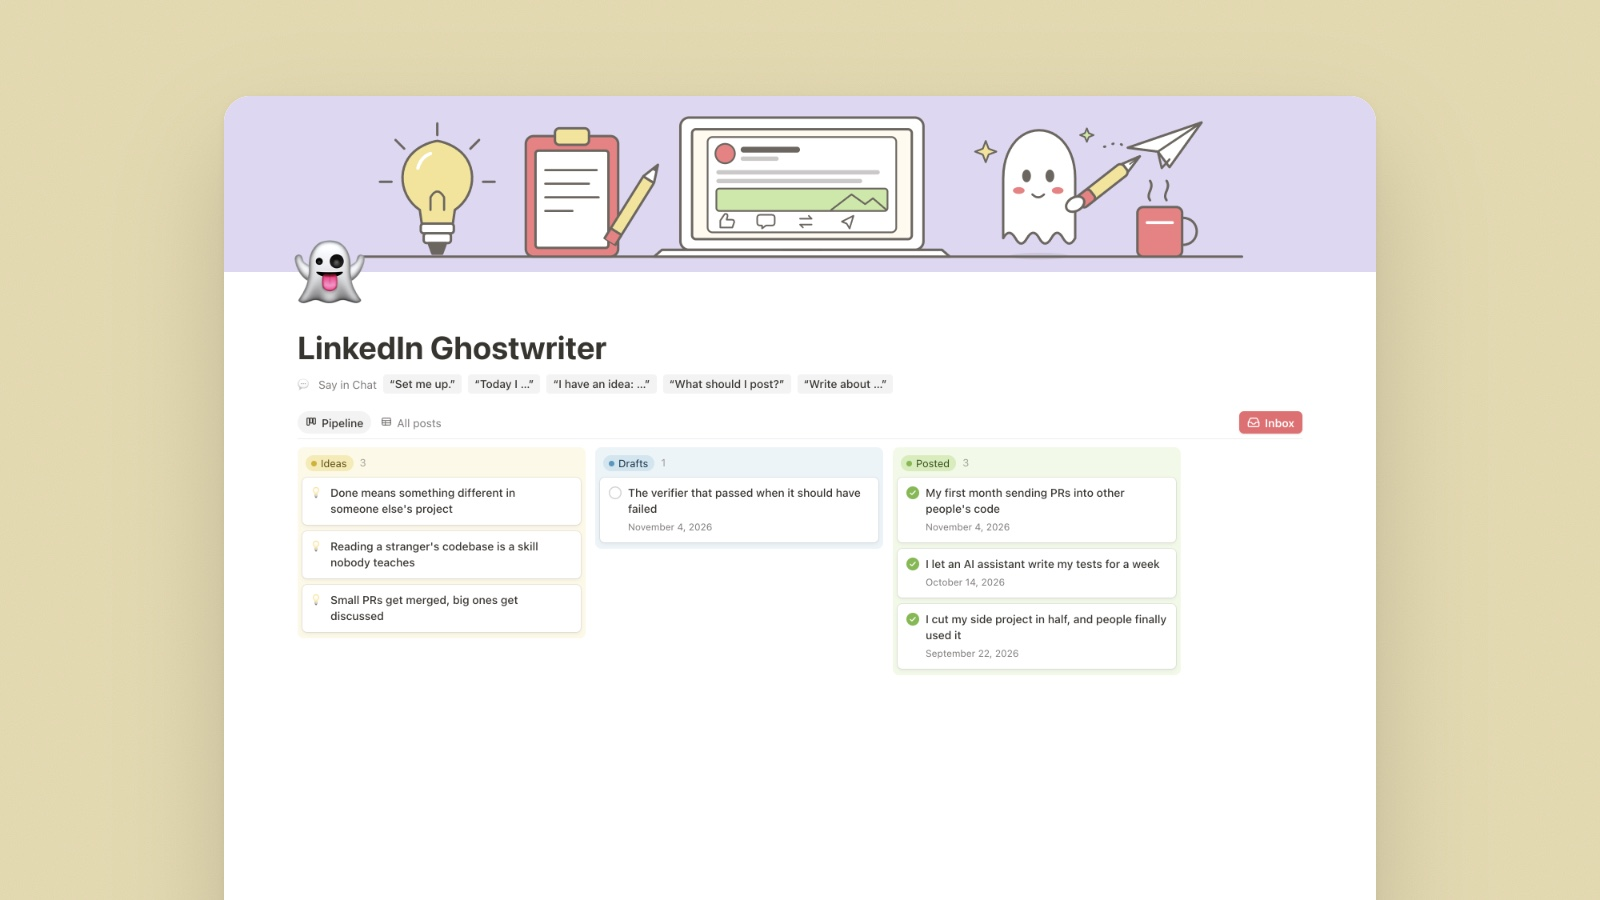
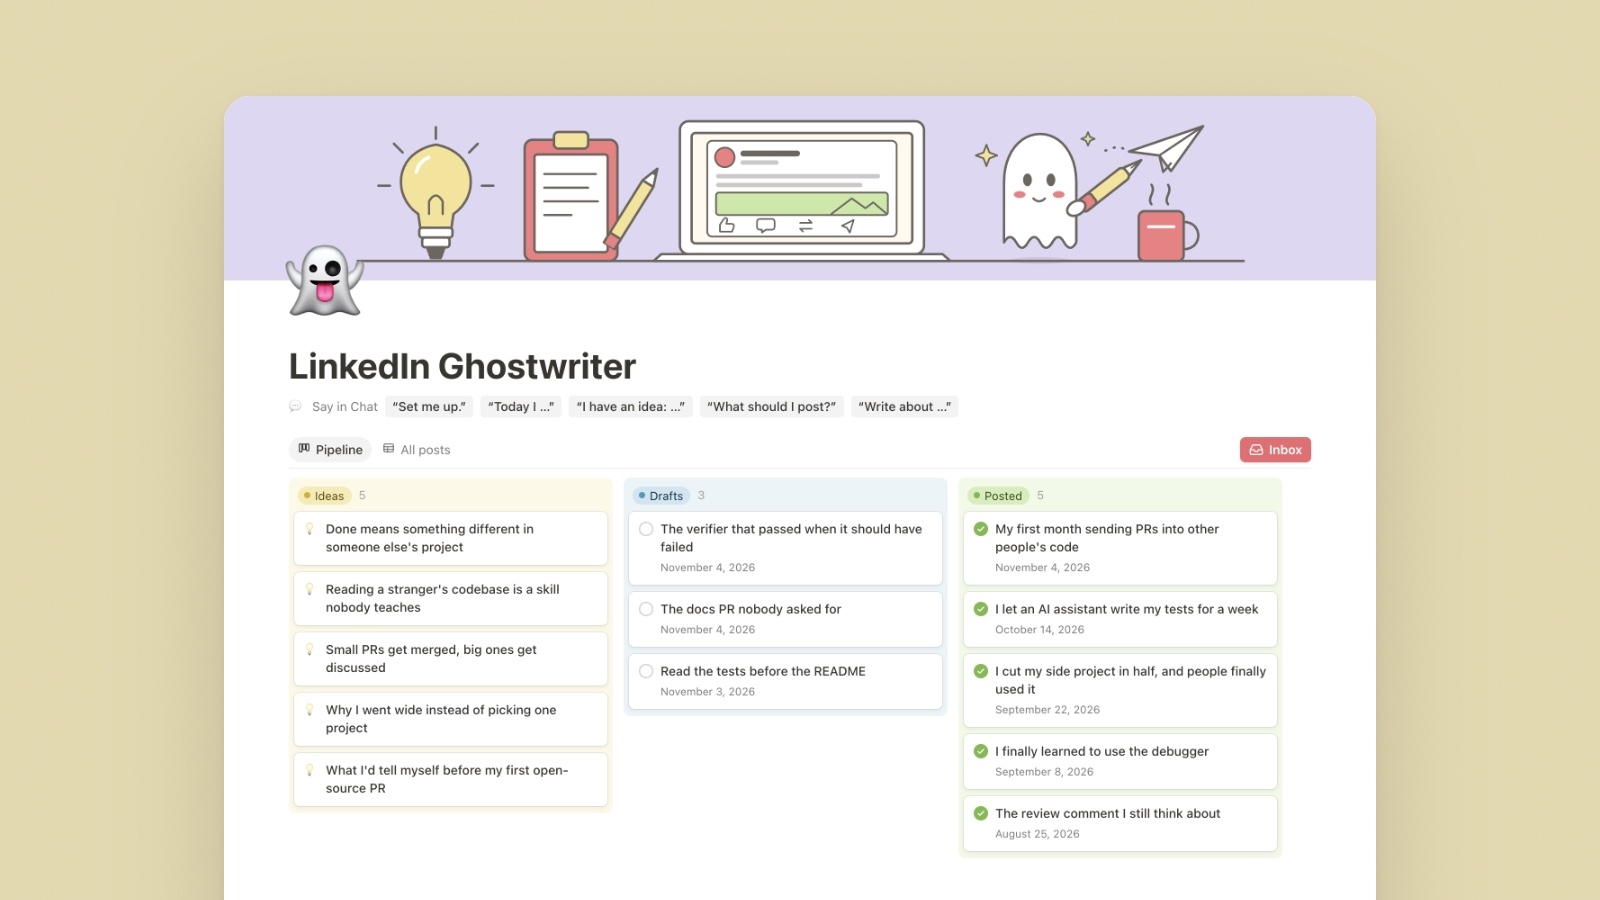
Fill out LinkedIn Ghostwriter's cover
The template's example board now has more ideas, drafts, and posts, and
the screenshot is taken at 1280 × 960, so the board fills the cover.

Changed region(s): [[0.125, 0.1244, 0.875, 0.9644], [0.75, 0.4356, 0.8438, 0.5289]]

diff --git a/covers/linkedin-ghostwriter.html b/covers/linkedin-ghostwriter.html
@@ -4,7 +4,7 @@
 <meta charset="utf-8">
 <link rel="stylesheet" href="cover.css">
 <style>
-  /* The thing is the ghostwriter dashboard itself: a real screenshot at 1440 × 1080, taken at 2x. */
+  /* The thing is the ghostwriter dashboard itself: a real screenshot at 1280 × 960, taken at 2x. */
   .thing { width: 960px; min-height: 0; overflow: hidden; }
   .thing img { display: block; width: 100%; }
 </style>
